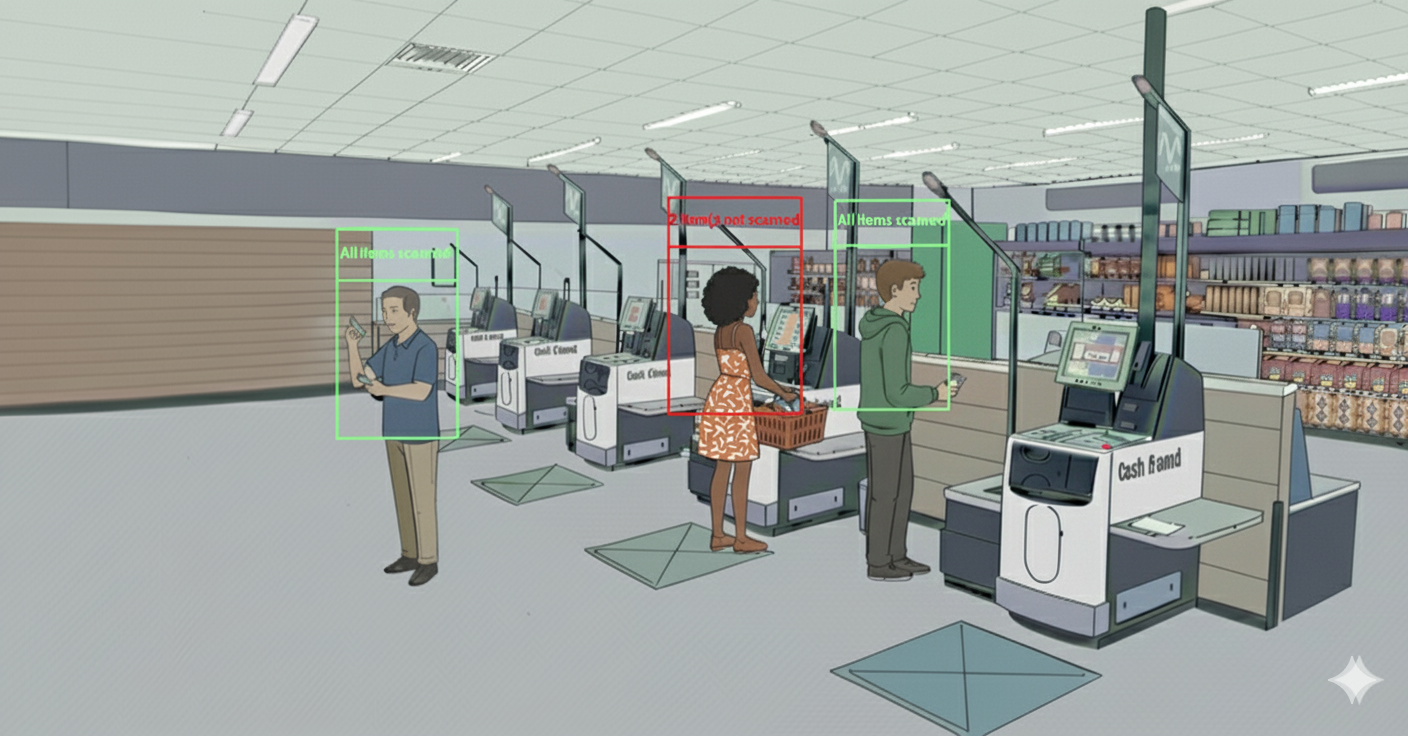
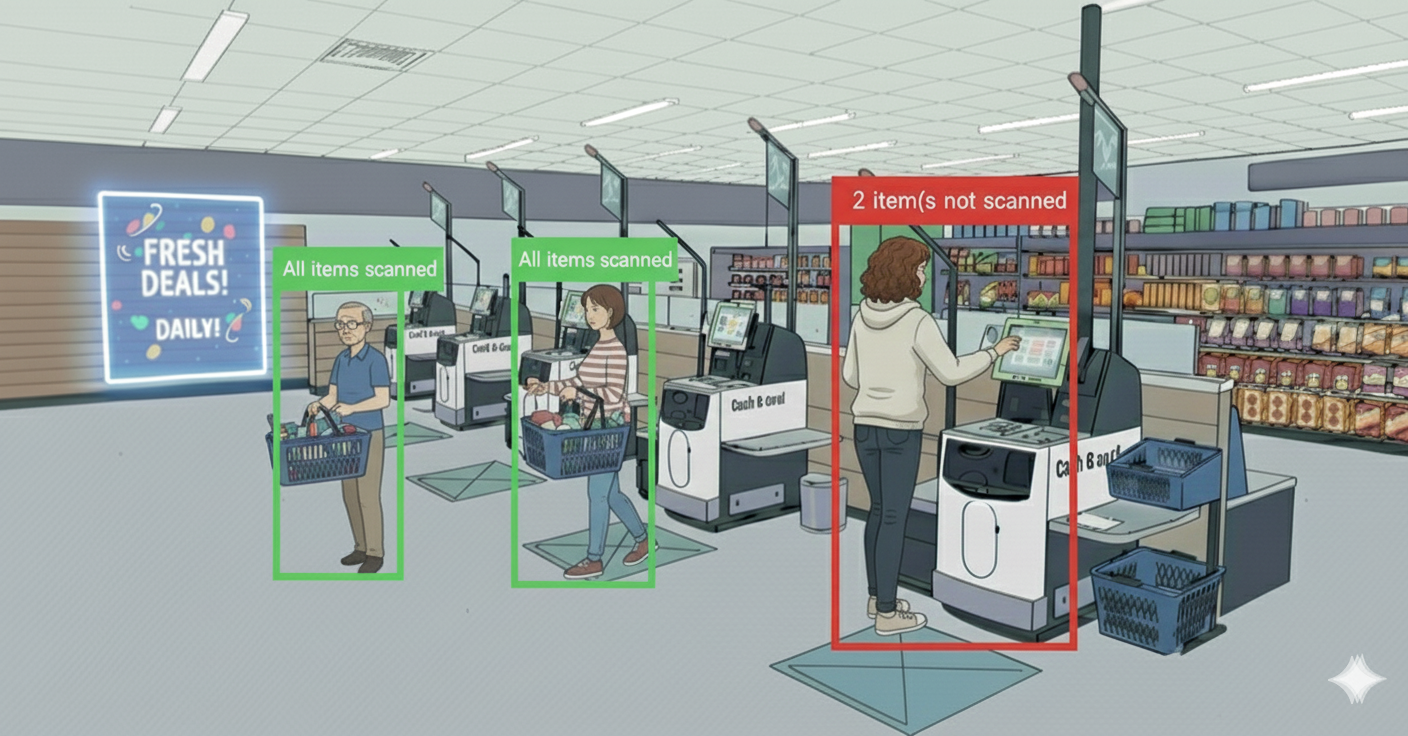
Added a go to memory button but the code to handle the button still needs to be done

diff --git a/src/main/java/nz/ac/auckland/se206/controllers/WitnessAiFlashback.java b/src/main/java/nz/ac/auckland/se206/controllers/WitnessAiFlashback.java
@@ -2,7 +2,6 @@ package nz.ac.auckland.se206.controllers;
 
 import java.util.ArrayList;
 import java.util.List;
-
 import javafx.fxml.FXML;
 import javafx.scene.Parent;
 import javafx.scene.control.Button;
@@ -15,6 +14,7 @@ public class WitnessAiFlashback extends FlashbackController {
   @FXML private ImageView backgroundImage;
   @FXML private Button nextBtn;
   @FXML private Label timerLabel;
+  @FXML private Button memoryButton;
 
   private List<String> imagePaths;
   private int currentDrawingIndex = 0;
@@ -27,9 +27,9 @@ public class WitnessAiFlashback extends FlashbackController {
   @Override
   protected void setupImages() {
     imagePaths = new ArrayList<>();
-    imagePaths.add("/images/defendantFlash1.png");
-    imagePaths.add("/images/defendantFlash2.png");
-    imagePaths.add("/images/defendantFlash3.png");
+    imagePaths.add("/images/aiFlash1.png");
+    imagePaths.add("/images/aiFlash2.png");
+    imagePaths.add("/images/aiFlash3.png");
     addImagesToStack(imagePaths);
   }
 

diff --git a/src/main/java/nz/ac/auckland/se206/controllers/flashback/FlashbackController.java b/src/main/java/nz/ac/auckland/se206/controllers/flashback/FlashbackController.java
@@ -25,7 +25,7 @@ public abstract class FlashbackController {
 
   // Navigation
   @FXML private Button nextButton;
-  @FXML private Button goBackButton;
+  @FXML private Button memoryButton;
 
   // Timer
   @FXML private Label timerLabel;
@@ -39,6 +39,7 @@ public abstract class FlashbackController {
    */
   protected void initialize() {
     imageStack = new Stack<>();
+    memoryButton.setVisible(false);
     setupImages();
     showCurrentImage();
   }
@@ -60,11 +61,16 @@ public abstract class FlashbackController {
   /** Navigate to next image */
   @FXML
   protected void nextDrawing() {
-    if (!imageStack.isEmpty()) {
+    if (imageStack.size() == 1) {
+      showCurrentImage();
+      nextButton.setVisible(false);
+      memoryButton.setVisible(true);
+    } else if (!imageStack.isEmpty()) {
       showCurrentImage();
     }
   }
 
+  /** Show the currnt image at the top of the stack */
   @FXML
   protected void showCurrentImage() {
     if (!imageStack.isEmpty()) {

diff --git a/src/main/java/nz/ac/auckland/se206/controllers/DefendantFlashback.java b/src/main/java/nz/ac/auckland/se206/controllers/DefendantFlashback.java
@@ -2,7 +2,6 @@ package nz.ac.auckland.se206.controllers;
 
 import java.util.ArrayList;
 import java.util.List;
-
 import javafx.fxml.FXML;
 import javafx.scene.Parent;
 import javafx.scene.control.Button;
@@ -16,6 +15,7 @@ public class DefendantFlashback extends FlashbackController {
   @FXML private ImageView backgroundImage;
   @FXML private Button nextBtn;
   @FXML private Label timerLabel;
+  @FXML private Button memoryButton;
 
   private List<String> imagePaths;
   private int currentDrawingIndex = 0;
@@ -28,9 +28,9 @@ public class DefendantFlashback extends FlashbackController {
   @Override
   protected void setupImages() {
     imagePaths = new ArrayList<>();
-    imagePaths.add("/images/defendantFlash1.png");
-    imagePaths.add("/images/defendantFlash2.png");
     imagePaths.add("/images/defendantFlash3.png");
+    imagePaths.add("/images/defendantFlash2.png");
+    imagePaths.add("/images/defendantFlash1.png");
     addImagesToStack(imagePaths);
   }
 

diff --git a/src/main/java/nz/ac/auckland/se206/controllers/WitnessHumanFlashback.java b/src/main/java/nz/ac/auckland/se206/controllers/WitnessHumanFlashback.java
@@ -14,6 +14,7 @@ public class WitnessHumanFlashback extends FlashbackController {
   @FXML private ImageView backgroundImage;
   @FXML private Button nextBtn;
   @FXML private Label timerLabel;
+  @FXML private Button memoryButton;
 
   private List<String> imagePaths;
   private int currentDrawingIndex = 0;
